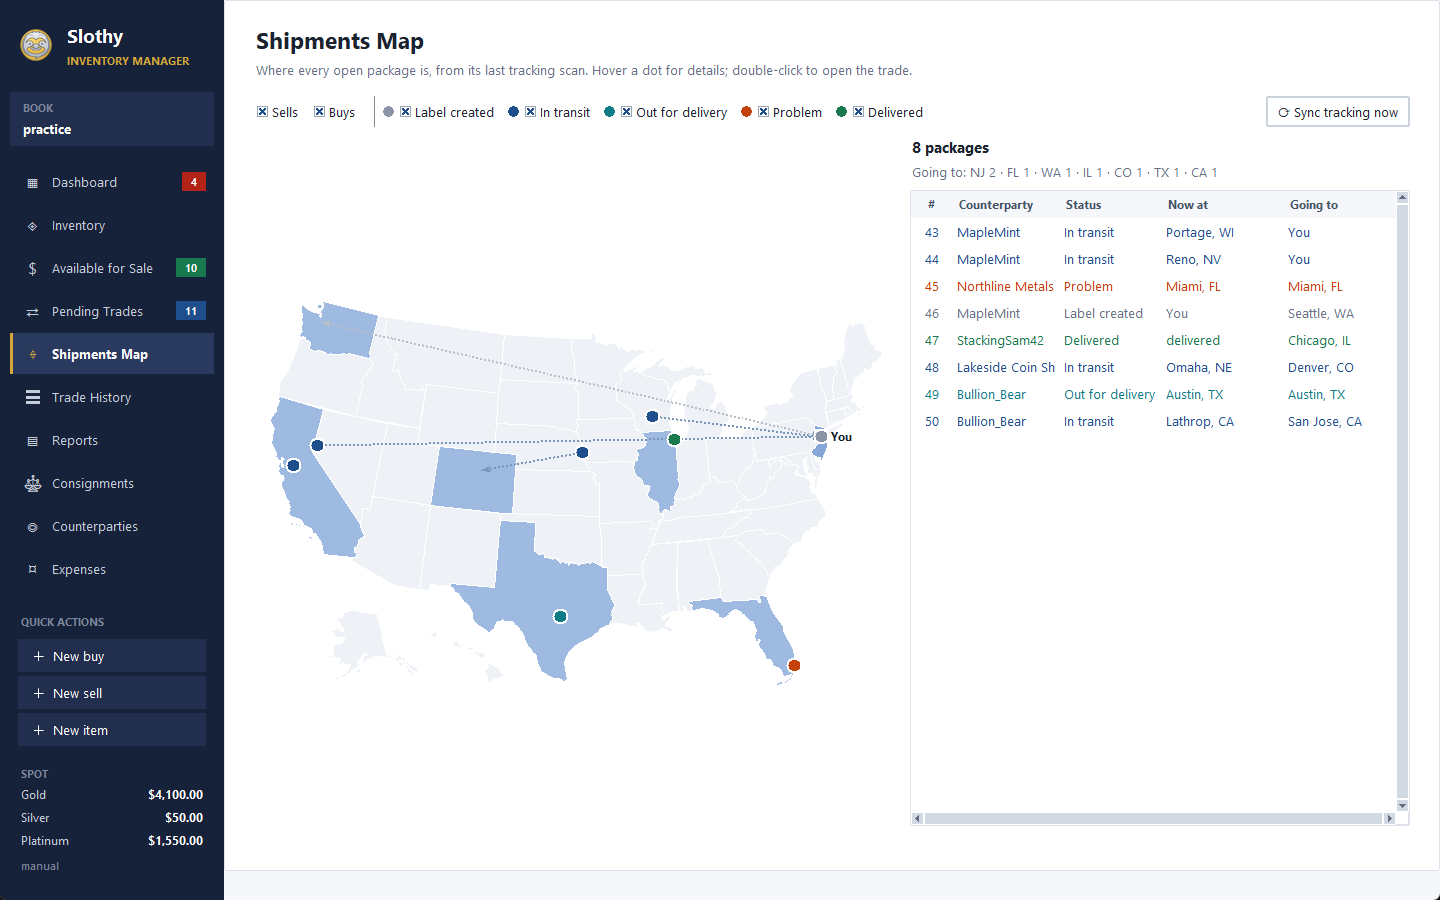
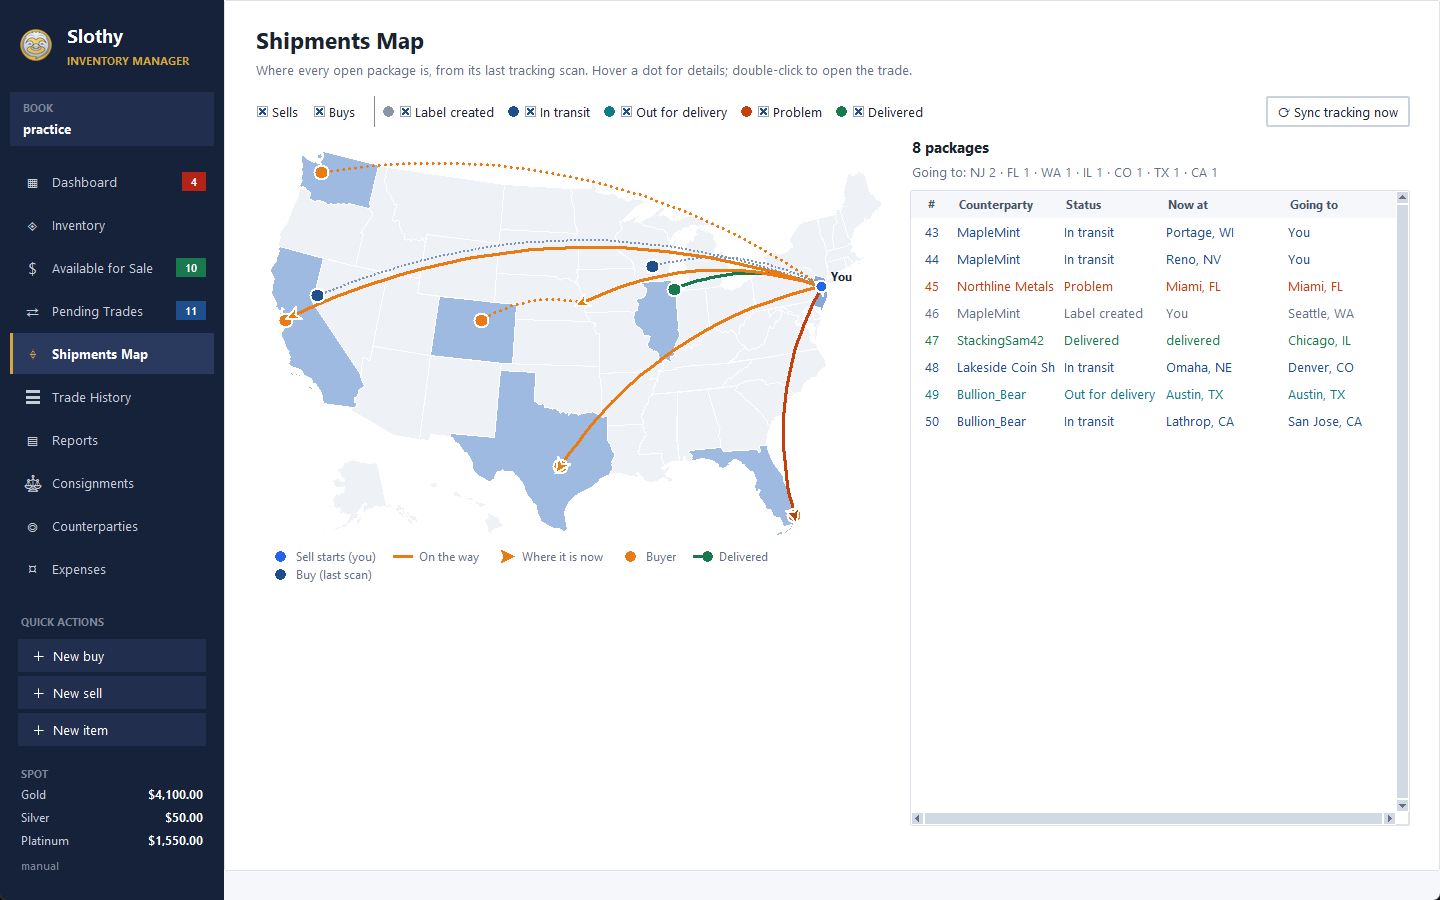
Guide: Shipments map sell routes

diff --git a/WORKFLOW.md b/WORKFLOW.md
@@ -99,7 +99,7 @@ day; the rest are for looking things up and reporting.
 | **Inventory** | Every item with on hand, incoming, sell pending, bought, sold, avg cost, on-hand cost, sold $, realized P/L, ounces, melt and available. Products with several serials fold under a bold row (▸). Yellow = has open trades; red = oversold. Type (Vintage, Modern, Art, Generic, Sovereign, Pour or your own) has its own column and filter. | ＋ New item, Buy more…, Sell selected…, Ask price…, Move to book…, Keep…, Edit, Combine…, History, Picture, Delete |
 | **Available for Sale** | What you can still sell: available (on hand − sell pending − kept), sell pending, ask, ask total, avg cost per ounce, cost, profit at ask, margin, melt, over melt. Products fold under a bold row; select it to act on all its serials. Yellow = no ask price; red = ask below cost. | Sell selected…, Ask price…, Item details, ✨ AI price check, Price details, Keep… |
 | **Pending Trades** | Open buys and sells, from payment to delivery. Pink = no items linked; green = delivered. | ＋ New buy / sell, Edit, $ Payment Completed, ✔ Trade Completed, 🏷 Create label…, 🖨 Print labels, 🖨 Packing slips, More (Track, Copy tracking link, Copy label as a picture, Refund label, Sync tracking now, Add to TrackingApp now, Open post / order link, Set post / order link… for the selected trades, Partly delivered, Lost, Cancel, Delete) |
-| **Shipments Map** | Every open package with a tracking number on a US map at its last scan (kept through scans with no place), coloured by status, with a line to where it's going. States shaded by how many packages are headed there. | Sells / Buys and status filters, hover a dot, double-click to open the trade, ⟳ Sync tracking now (Ctrl+M) |
+| **Shipments Map** | Every open package with a tracking number on a US map. Sells: a curved route from you (blue dot) to the buyer, orange with an arrow at the last scan (kept through scans with no place), green once delivered. Buys: a dot at the last scan. States shaded by how many packages are headed there. | Sells / Buys and status filters, hover a dot, double-click to open the trade, ⟳ Sync tracking now (Ctrl+M) |
 | **Trade History** | Finished trades (completed, lost, cancelled) and the profit on every sale. *By trade*: one row per trade with total, cost, P/L, shipping gain or cost, payment and tracking. *By item sold*: one row per item with qty, sale price, cost basis, P/L, margin, buyer, payment. Footer: P/L − expenses = net. | By trade / By item sold, View / edit, Reopen, Return / refund…, Open link, Delete, From / To, This year |
 | **Reports** | Month-by-month P&L for a year or all years: sales, cost of sales, lost buys, gross P/L, each expense category, net P/L, buys. Chart of net P/L per month. Sales broken down by metal, channel, counterparty or item. | Year, click a month or bar, Sales by, Export CSV… |
 | **Consignments** | Items people gave you to sell for a fee: per person, items here and sold, your fees, paid out and still owed. Never part of your own stock or cost. | ＋ Take in items…, Pay out…, Give back unsold…, Statement…, Their fee %… |

diff --git a/GUIDE.md b/GUIDE.md
@@ -350,13 +350,14 @@ can follow packages in that service's own app on your phone too. Pick the servic
 
 **Shipments Map** (in the sidebar, or Ctrl+M) shows every open package that has a tracking number on a US map:
 
-- **Each dot is a package at its last scan**, coloured by status: label created (grey), in transit (blue), out for
-  delivery or ready for pickup (teal), problem (orange: an exception, a failed attempt, or no updates) and delivered
-  (green). Packages in the same town share one dot with a count on it.
-- **Last known location:** when a scan has no place (for example *In transit to next facility*), the dot stays where
-  the package was last scanned with one.
-- A dashed line runs from each package to where it's going: the buyer's address for a sell, you for a buy. A label
-  that hasn't been scanned yet sits where the package starts (you, for a sell).
+- **Sells are curved routes:** a blue dot where the package started (you), a bold orange line to an **orange
+  arrow** at the town it was last scanned in, then a dashed orange line on to the **buyer** (an orange dot). Once it's
+  delivered, the line and the buyer's dot turn **green**. A problem (an exception, a failed attempt, or no updates)
+  turns the line red-orange. A label that hasn't been scanned yet starts its arrow at you.
+- **Buys** are a dot at their last scan, coloured by status, with a thin dashed line to you.
+- **Last known location:** when a scan has no place (for example *In transit to next facility*), the arrow or dot
+  stays where the package was last scanned with one.
+- Packages in the same town share one dot with a count on it. The legend is under the map.
 - **States are shaded** by how many packages are headed there, and the list on the right has the counts ("Going to:
   CA 2 · TX 1").
 - Hover a dot to see the trades, their last scan and where they're going; click it to pick them in the list;
@@ -366,7 +367,7 @@ can follow packages in that service's own app on your phone too. Pick the servic
   nothing is looked up online and no address leaves your PC.
 
 ![Shipments map](images/shipments-map.png)
-*Every open package at its last scan, with a line to where it's going (practice data, made-up addresses).*
+*Sells as routes from you to the buyer, the arrow where each one is now; green once delivered (practice data, made-up addresses).*
 
 ## For Sale
 
